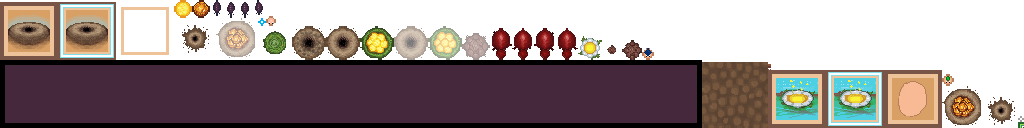
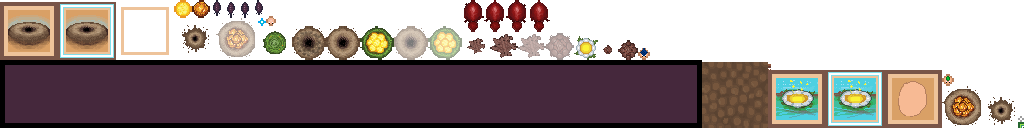
Added mob house

Changed region(s): [[0.4375, 0.0, 0.6562, 0.4688]]

diff --git a/LudumDare38/core/src/com/gurbx/ld38/ui/HouseMenu.java b/LudumDare38/core/src/com/gurbx/ld38/ui/HouseMenu.java
@@ -21,6 +21,7 @@ public class HouseMenu {
 	private String pollenPumpDescription;
 	private String resinStorageDesc;
 	private String pollenStorageDesc;
+	private String mobHouseDescription;
 	private int hover;
 	private float x = 55;
 	private float y = 95;
@@ -46,10 +47,11 @@ public class HouseMenu {
 		resinPumpDescription = "Gathers resin";
 		resinStorageDesc = "Increases the storage capacity of resin by 100"; 
 		pollenStorageDesc = "Increases the storage capacity of pollen by 100"; 
+		mobHouseDescription = "Increases the unit capacity by 5";
 	}
 
 	private void initButtons(Stage stage, TextureAtlas atlas) {
-		houseButton = new ImageButton[5];
+		houseButton = new ImageButton[6];
 		float buttonX = 56; 
 		float buttonY = 10;
         Skin skin = new Skin(atlas);
@@ -77,12 +79,18 @@ public class HouseMenu {
         style5.imageUp = skin.getDrawable("houseButton2");
         style5.imageOver = skin.getDrawable("houseButtonOver2");
         style5.imageDown = skin.getDrawable("houseButtonPressed2");
+        
+        ImageButton.ImageButtonStyle style6 = new ImageButton.ImageButtonStyle();
+        style6.imageUp = skin.getDrawable("houseButton2");
+        style6.imageOver = skin.getDrawable("houseButtonOver2");
+        style6.imageDown = skin.getDrawable("houseButtonPressed2");
 
         houseButton[0] = new ImageButton(style1);
         houseButton[1] = new ImageButton(style2);
         houseButton[2] = new ImageButton(style3);
         houseButton[3] = new ImageButton(style4);
         houseButton[4] = new ImageButton(style5);
+        houseButton[5] = new ImageButton(style6);
         
         
         //Standard
@@ -184,6 +192,26 @@ public class HouseMenu {
             }
         });
         
+        //Mob House
+        houseButton[5].addListener( new ClickListener() {
+            @Override
+            public void clicked(InputEvent event, float x, float y) {
+            	if (!active) return;
+            	if (houseHandler.canPlaceHouse(HouseType.MOB_HOUSE) == false) return;
+            	houseHandler.placeNewHouse(HouseType.MOB_HOUSE);
+            };
+            @Override
+            public void enter(InputEvent event, float x, float y, int pointer, Actor fromActor) {
+            	super.enter(event, x, y, pointer, fromActor);
+            	hover = 6;
+            }
+            @Override
+            public void exit(InputEvent event, float x, float y, int pointer, Actor toActor) {
+            	super.exit(event, x, y, pointer, toActor);
+            	hover = 0;
+            }
+        });
+        
         
         for (int i = 0; i < houseButton.length; i++) {
             houseButton[i].setPosition(buttonX + 64 * i, buttonY);
@@ -229,6 +257,11 @@ public class HouseMenu {
 			header = "Pollen Storage";
 			description = pollenStorageDesc;
 			type = HouseType.POLLEN_STORAGE;
+			break;
+		case 6:
+			header = "House";
+			description = mobHouseDescription;
+			type = HouseType.MOB_HOUSE;
 			break;
 
 		default:

diff --git a/LudumDare38/core/src/com/gurbx/ld38/house/MobHouse.java b/LudumDare38/core/src/com/gurbx/ld38/house/MobHouse.java
@@ -4,11 +4,32 @@ import com.badlogic.gdx.graphics.g2d.TextureAtlas;
 import com.gurbx.ld38.resources.Resources;
 
 public class MobHouse extends House {
+	private int ammountIncreased = 5;
 	private Resources resources;
+	private boolean storageIncreased;
 
 	public MobHouse(float x, float y, HouseType type, TextureAtlas atlas, Resources resources) {
 		super(x, y, type, atlas);
 		this.resources = resources;
 	}
 
+	
+	@Override
+	public void update(float delta, float x, float y) {
+		super.update(delta, x, y);
+		if (buildFinnished && storageIncreased == false) {
+			increaseStorage();
+		}
+	}
+
+	private void increaseStorage() {
+		storageIncreased = true;
+		resources.increaseMobSize(ammountIncreased);
+	}
+	
+	@Override
+	public void damage(int damage) {
+		super.damage(damage);
+		if (health <= 0) resources.decreaseMobSize(ammountIncreased);
+	}
 }

diff --git a/LudumDare38/core/src/com/gurbx/ld38/house/HouseHandler.java b/LudumDare38/core/src/com/gurbx/ld38/house/HouseHandler.java
@@ -126,6 +126,10 @@ public class HouseHandler implements GameInterface {
 			resources.removeResin(type.getCost());
 			placedHouse = new PollenStorage(mouseX, mouseY, type, atlas, resources);
 			break;
+		case MOB_HOUSE:
+			resources.removeResin(type.getCost());
+			placedHouse = new MobHouse(mouseX, mouseY, type, atlas, resources);
+			break;
 			
 
 		default:

diff --git a/LudumDare38/core/src/com/gurbx/ld38/resources/Resources.java b/LudumDare38/core/src/com/gurbx/ld38/resources/Resources.java
@@ -94,4 +94,14 @@ public class Resources {
 		return false;
 	}
 
+	public void increaseMobSize(int ammountIncreased) {
+		this.maxUnits += ammountIncreased;
+		
+	}
+
+	public void decreaseMobSize(int ammountIncreased) {
+		this.maxUnits -= ammountIncreased;
+		
+	}
+
 }
